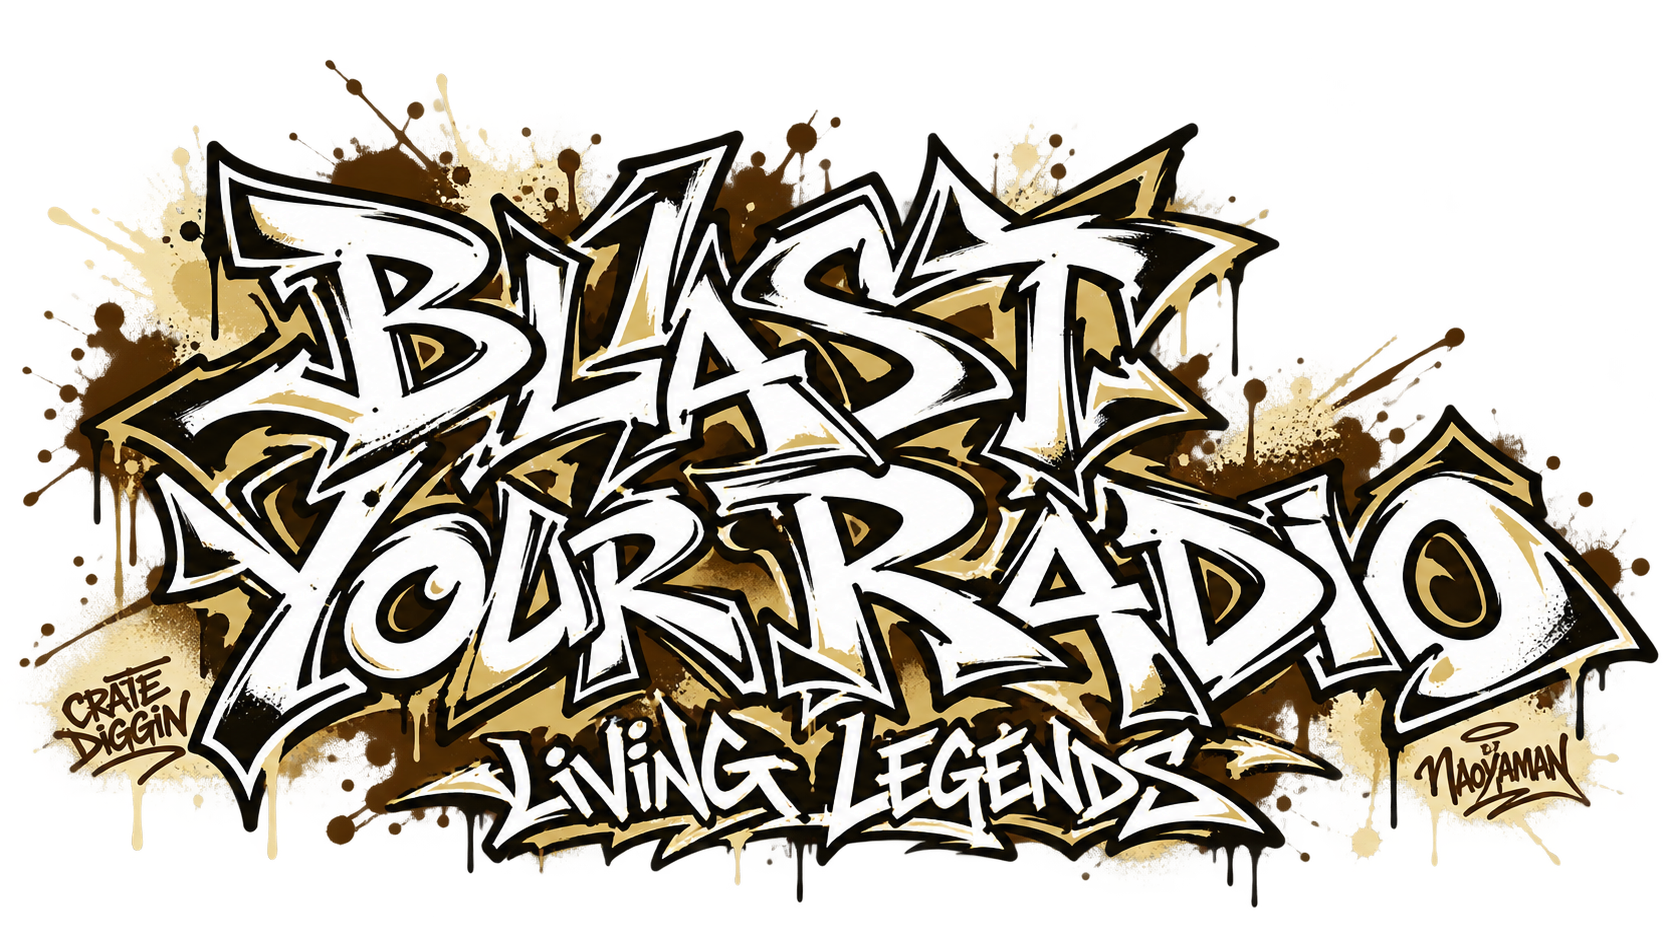
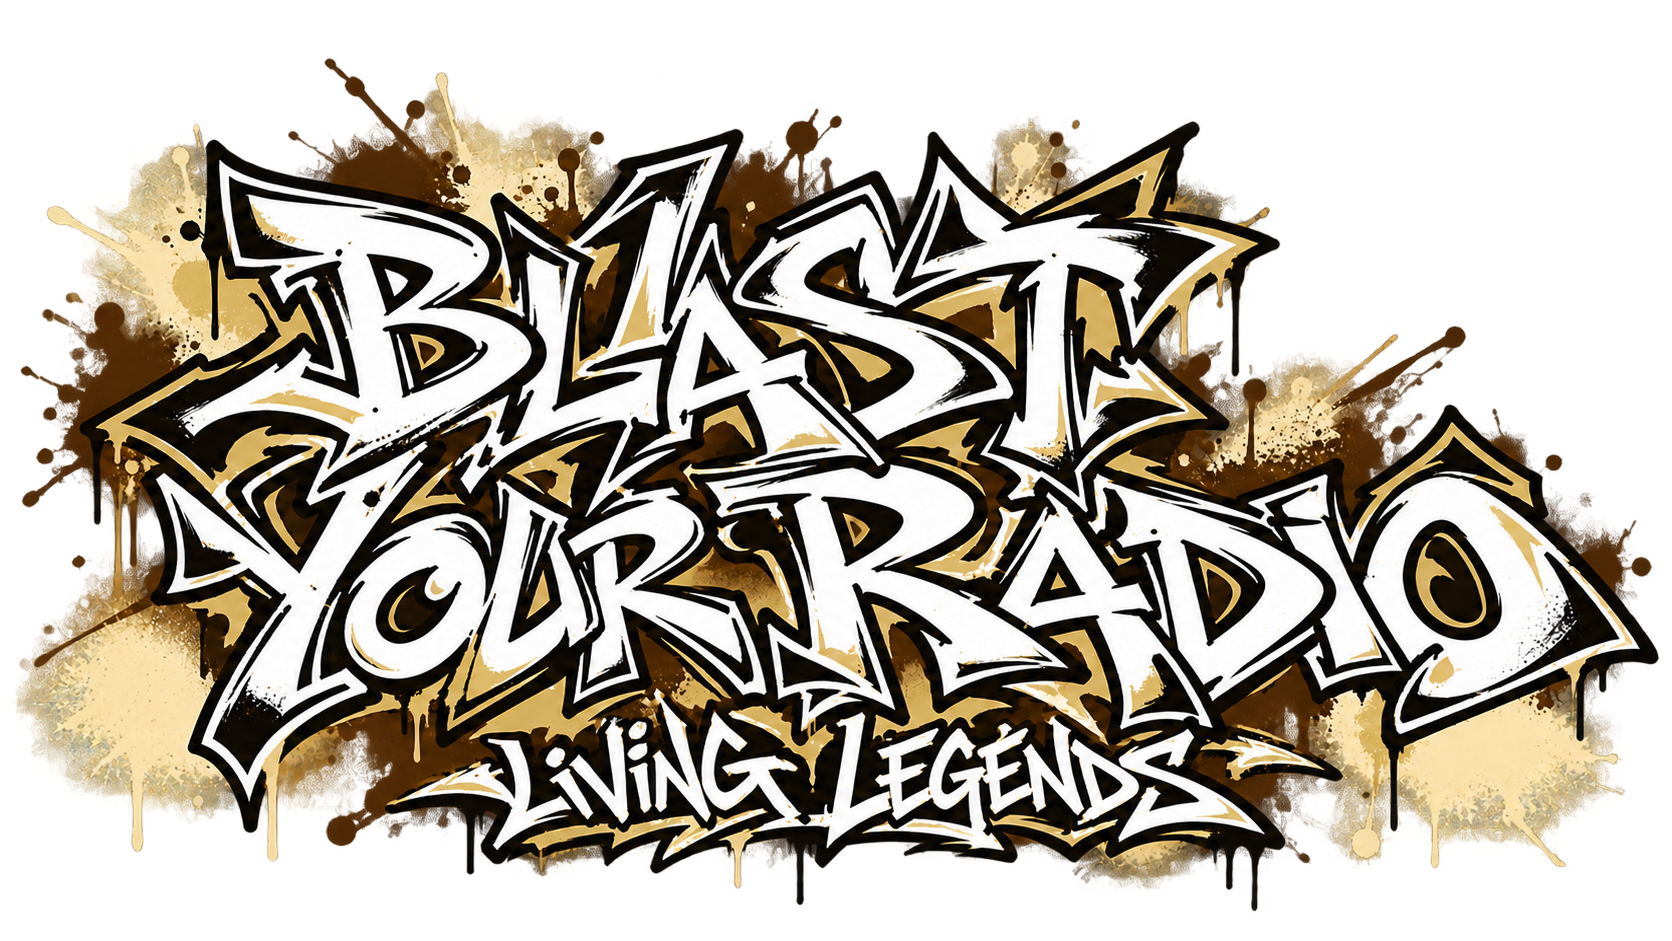
Remove site signatures from nine requested track artworks

diff --git a/scripts/verify_nine_branding.py b/scripts/verify_nine_branding.py
@@ -1,0 +1,23 @@
+from pathlib import Path
+import json,hashlib,sys
+from PIL import Image
+from approved_nine_branding import F,historical_nine_branding_file
+R=Path(__file__).resolve().parents[1];sha=lambda b:hashlib.sha256(b).hexdigest()
+for p,h in F['protected'].items():assert sha((R/p).read_bytes())==h,p
+assert len(json.loads((R/'tracks.json').read_text()))==521
+for a in F['assets']:
+ p=R/a['path'];assert sha(p.read_bytes())==a['afterSHA256'] and a['afterSHA256']!=a['beforeSHA256']
+ with Image.open(p) as im:
+  im.load();assert im.mode=='RGBA' and list(im.size)==a['dimensions'] and max(im.size)<=2400
+  assert sha(im.tobytes())==a['rgbaSHA256'];assert im.getchannel('A').getextrema()[0]==0
+  assert any(min(r,g,b)>225 and alpha>240 for r,g,b,alpha in im.getdata()),'White paint lost'
+ if '--source-only' not in sys.argv:
+  D=R/'dist';html=(D/'tracks'/(a['id']+'.html')).read_text();assert a['path'] in html and 'Original graffiti' in html and 'DJ Naoyaman' in html
+  with Image.open(D/a['path']) as im:assert im.mode=='RGBA' and im.size==tuple(a['dimensions'])
+  with Image.open(D/'og'/(a['id']+'.jpg')) as im:assert im.size==(1200,630)
+raw=(R/'releases.json').read_bytes();historical_nine_branding_file('releases.json',raw)
+try:historical_nine_branding_file('releases.json',raw+b' ')
+except AssertionError:pass
+else:raise AssertionError('Unapproved release mutation accepted')
+assert historical_nine_branding_file('unrelated',b'unchanged')==b'unchanged'
+print('Source image hashes, exact RGBA, transparency, white paint and 521-record/runtime preservation PASS.' if '--source-only' in sys.argv else 'Source plus generated artwork, external credit and 1200x630 OGP PASS. Lettering/style reviewed separately.')

diff --git a/scripts/approved_nine_branding.py b/scripts/approved_nine_branding.py
@@ -1,0 +1,10 @@
+"""Only the release version is normalized; replacement assets checked separately."""
+from pathlib import Path
+import json,hashlib
+R=Path(__file__).resolve().parents[1]
+F=json.loads((R/'scripts/fixtures/approved-nine-branding.json').read_text())
+def historical_nine_branding_file(path,data):
+ if path!='releases.json':return data
+ assert hashlib.sha256(data).hexdigest()==F['afterReleaseSHA256'],'Unapproved art release drift'
+ obj=json.loads(data);obj['version']=F['beforeVersion'];before=(json.dumps(obj,ensure_ascii=False,indent=2)+'\n').encode()
+ assert hashlib.sha256(before).hexdigest()==F['beforeReleaseSHA256'];return before

diff --git a/scripts/approved_named_art_first.py b/scripts/approved_named_art_first.py
@@ -4,6 +4,8 @@ import json,hashlib
 R=Path(__file__).resolve().parents[1]
 F=json.loads((R/'scripts/fixtures/approved-named-art-first.json').read_text())
 def historical_named_art_first_file(path,data):
+ from approved_nine_branding import historical_nine_branding_file
+ data=historical_nine_branding_file(path,data)
  if path!='releases.json':return data
  assert hashlib.sha256(data).hexdigest()==F['afterReleaseSHA256'],'Unapproved art release drift'
  obj=json.loads(data);obj['version']=F['beforeVersion'];before=(json.dumps(obj,ensure_ascii=False,indent=2)+'\n').encode()
